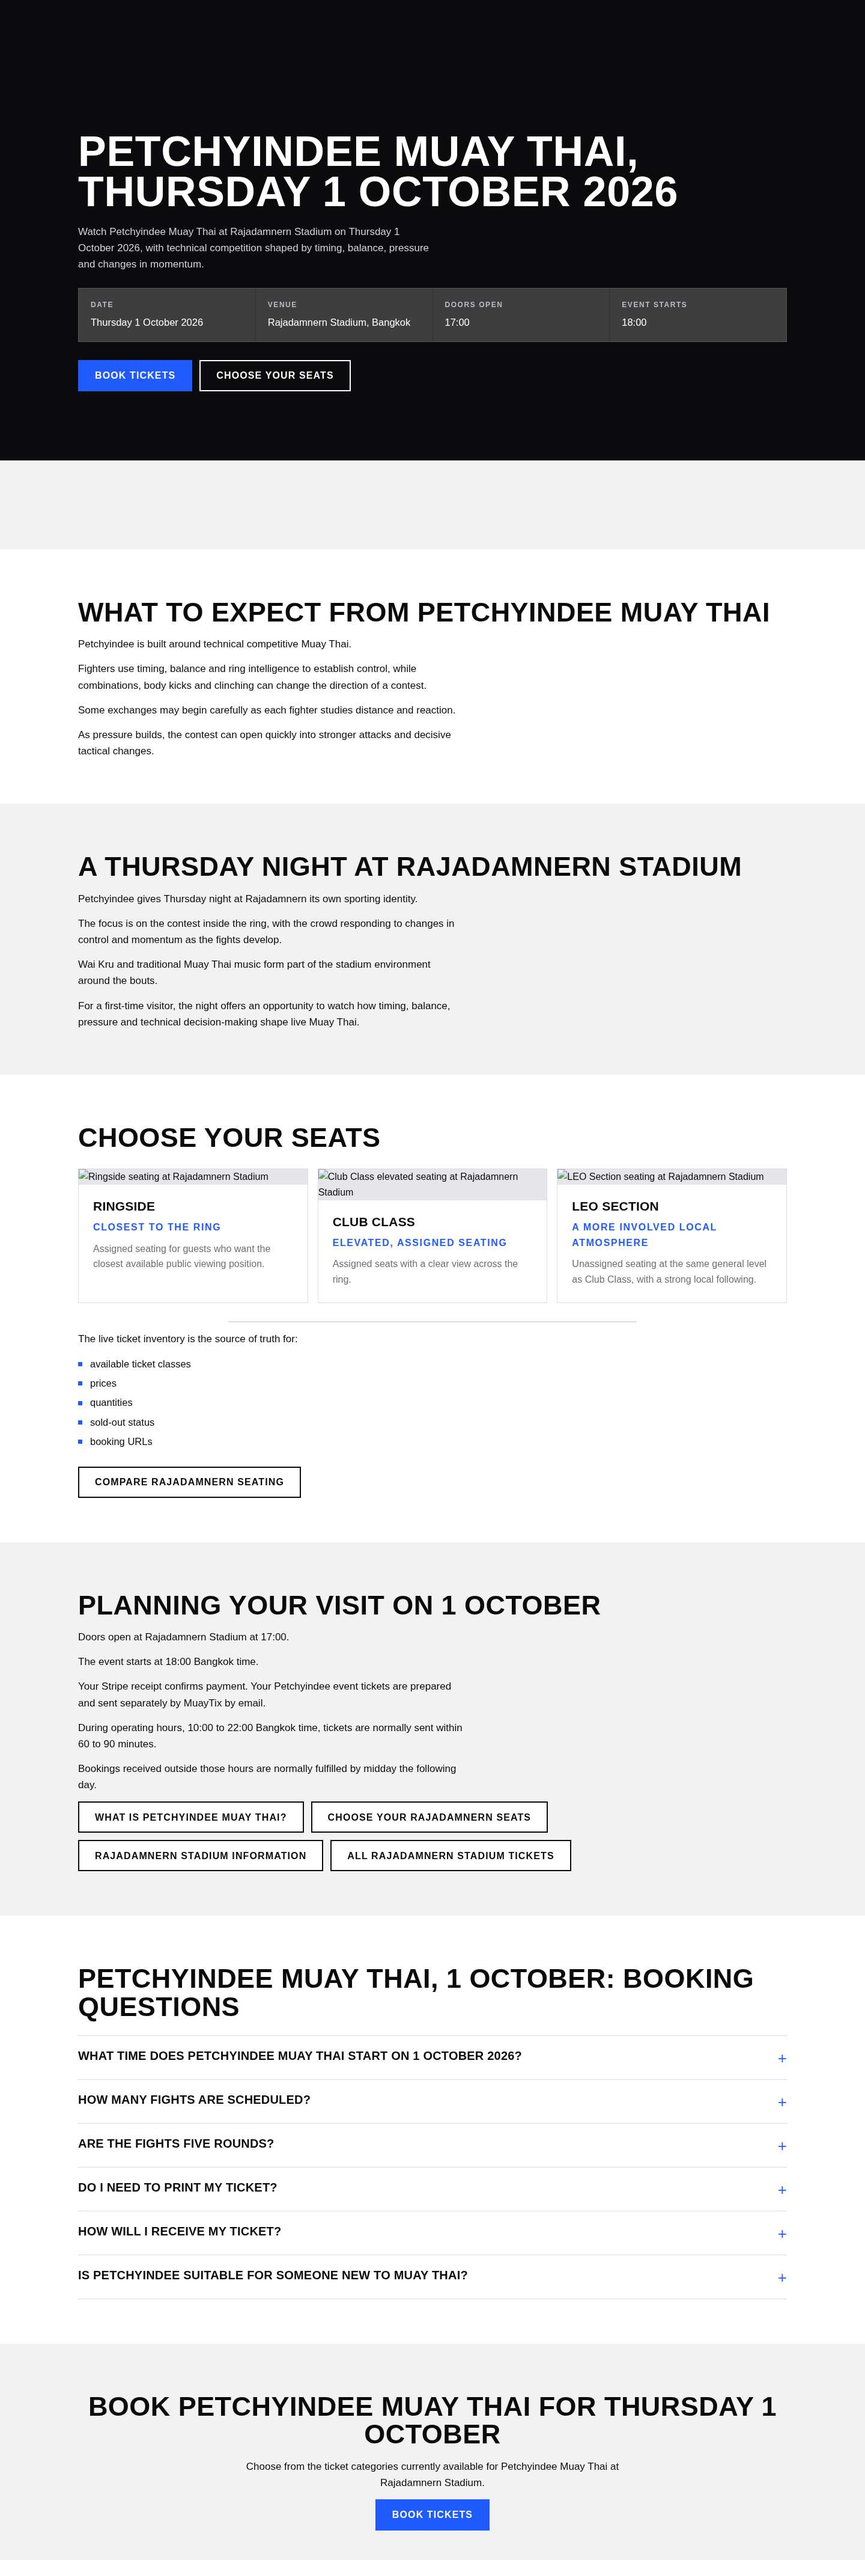
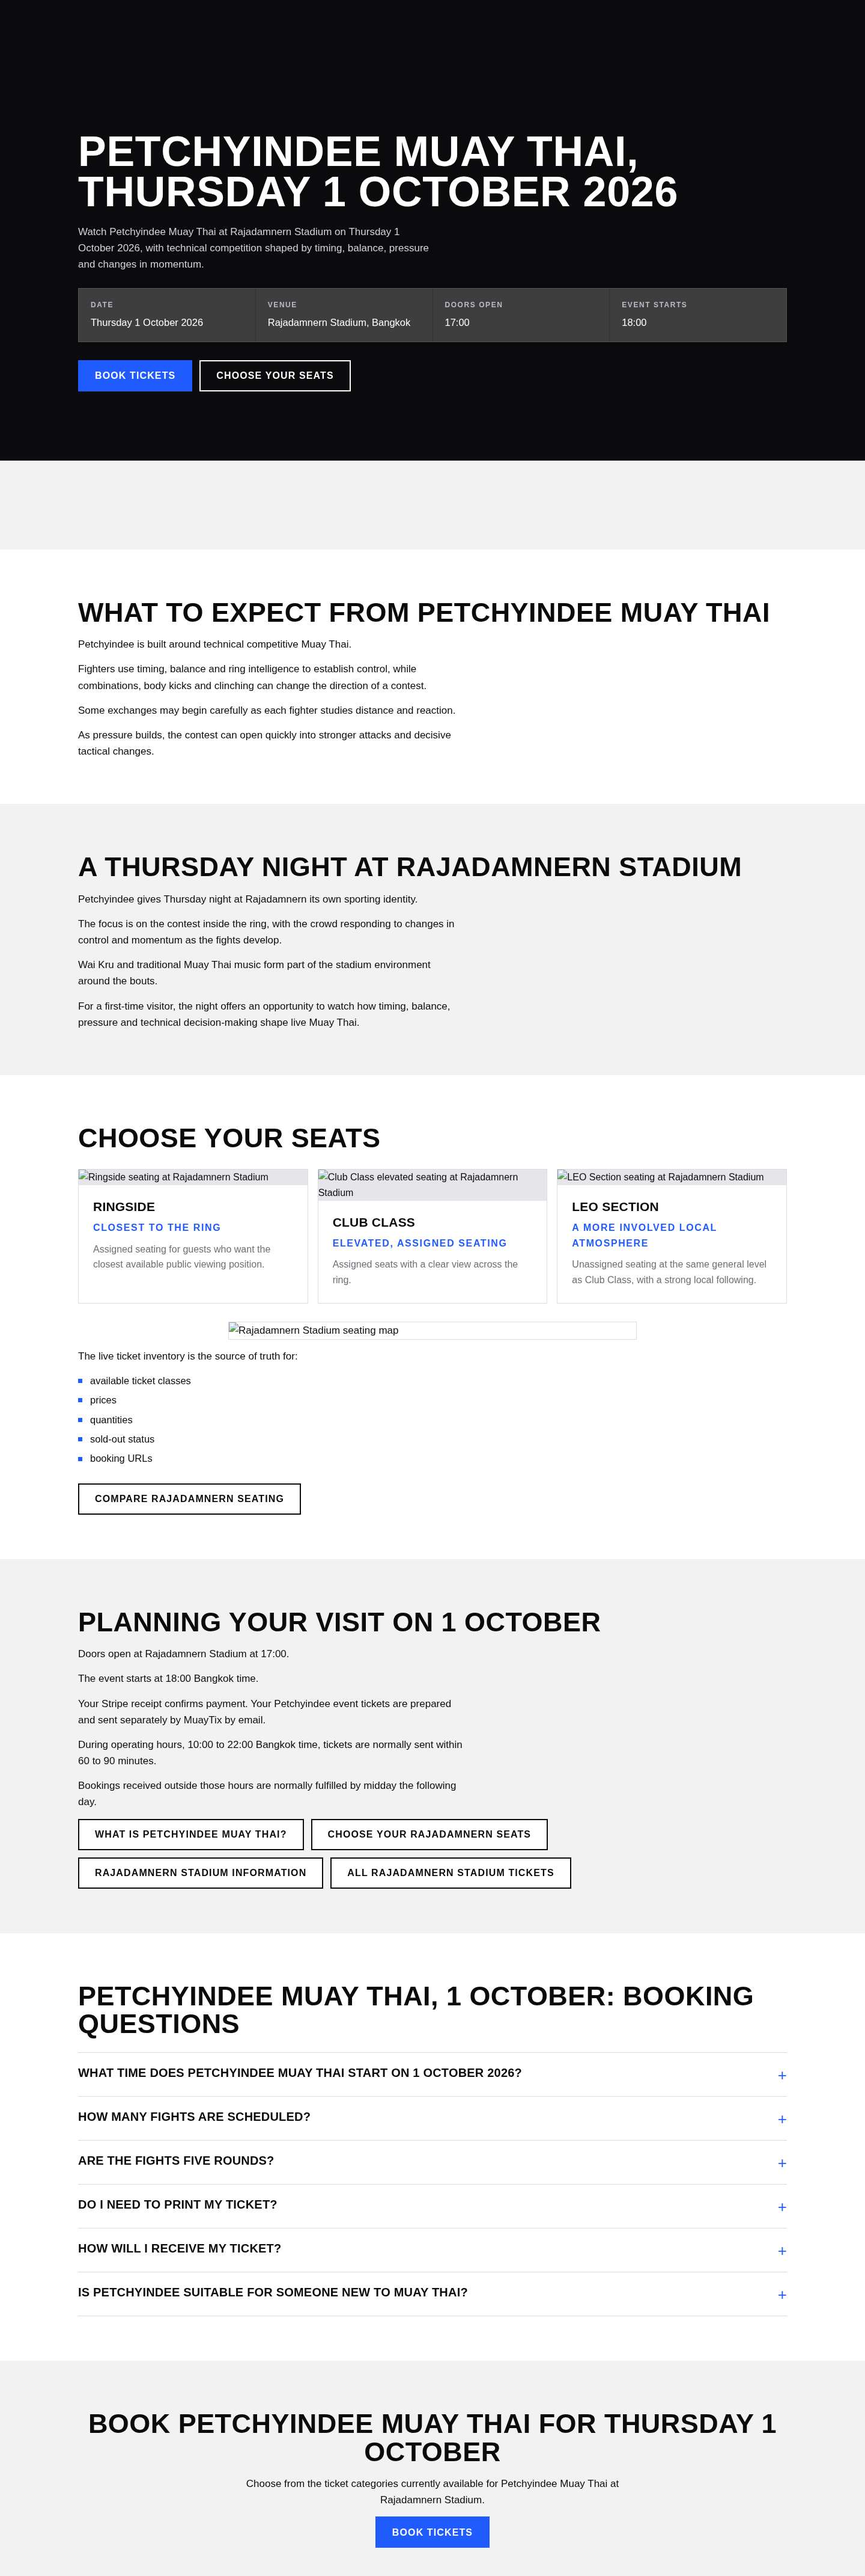
Give the widget its heading styles back on five pages
Every page that hosts the booking widget scopes its own headings with a
rule like `.mtx-pi h1, .mtx-pi h2, .mtx-pi h3 { text-transform: uppercase }`.
The widget mounts inside that scope, so the rule matches the widget's own
headings directly, and a direct match beats what the widget only sets on an
ancestor. The fight night's name and the widget's step labels were coming
out in the page's condensed capitals instead of the sentence case the widget
sets. Measured, not assumed: the widget's own h2 rendered text-transform
uppercase under the page stylesheet and none without it.

This is the trap that once turned a fight night's name white on a white
panel, and the seating page has carried the fix since. All-Star, New Power,
Knockout and Petchyindee did not. They do now.

The guard sets only colour and text-transform. An earlier draft also pinned
font-weight and knocked the band heading from 800 back to 700, which is why
each page was measured against the widget rendered with no page stylesheet
at all: all four now match that baseline exactly.

The homepage carries no widget, so it needs no guard.

Claude-Session: https://claude.ai/code/session_01KJfBegVkwrLgzgRP3UNWWd

diff --git a/pages/all-star/dated-source.html b/pages/all-star/dated-source.html
@@ -46,6 +46,14 @@
 .mtx-as h1 { font-size: clamp(38px, 6vw, 70px); line-height: .96; }
 .mtx-as h2 { font-size: clamp(29px, 3.6vw, 45px); line-height: 1.03; margin-top: 8px; }
 .mtx-as h3 { font-size: 21px; line-height: 1.15; }
+/* Hands the widget its own headings back. The widget mounts inside this block,
+   so the heading rules above match its headings directly, and a direct match
+   beats anything the widget only sets on an ancestor. Without this the fight
+   night's own name and the widget's step labels come out shouting in the
+   page's condensed capitals, and a colour set here once turned a fight
+   night's name white on a white panel. */
+.mtx-as #mtx-booking h1, .mtx-as #mtx-booking h2,
+.mtx-as #mtx-booking h3, .mtx-as #mtx-booking h4 { color: inherit; text-transform: none; }
 .mtx-as__kicker {
   display: block; color: var(--as-blue); font-family: "Barlow Condensed", "Arial Narrow", sans-serif;
   font-weight: 800; font-size: 13px; letter-spacing: .13em; text-transform: uppercase;

diff --git a/pages/all-star/hub-source.html b/pages/all-star/hub-source.html
@@ -46,6 +46,14 @@
 .mtx-as h1 { font-size: clamp(38px, 6vw, 70px); line-height: .96; }
 .mtx-as h2 { font-size: clamp(29px, 3.6vw, 45px); line-height: 1.03; margin-top: 8px; }
 .mtx-as h3 { font-size: 21px; line-height: 1.15; }
+/* Hands the widget its own headings back. The widget mounts inside this block,
+   so the heading rules above match its headings directly, and a direct match
+   beats anything the widget only sets on an ancestor. Without this the fight
+   night's own name and the widget's step labels come out shouting in the
+   page's condensed capitals, and a colour set here once turned a fight
+   night's name white on a white panel. */
+.mtx-as #mtx-booking h1, .mtx-as #mtx-booking h2,
+.mtx-as #mtx-booking h3, .mtx-as #mtx-booking h4 { color: inherit; text-transform: none; }
 .mtx-as__kicker {
   display: block; color: var(--as-blue); font-family: "Barlow Condensed", "Arial Narrow", sans-serif;
   font-weight: 800; font-size: 13px; letter-spacing: .13em; text-transform: uppercase;

diff --git a/pages/all-star/style.css b/pages/all-star/style.css
@@ -33,6 +33,14 @@
 .mtx-as h1 { font-size: clamp(38px, 6vw, 70px); line-height: .96; }
 .mtx-as h2 { font-size: clamp(29px, 3.6vw, 45px); line-height: 1.03; margin-top: 8px; }
 .mtx-as h3 { font-size: 21px; line-height: 1.15; }
+/* Hands the widget its own headings back. The widget mounts inside this block,
+   so the heading rules above match its headings directly, and a direct match
+   beats anything the widget only sets on an ancestor. Without this the fight
+   night's own name and the widget's step labels come out shouting in the
+   page's condensed capitals, and a colour set here once turned a fight
+   night's name white on a white panel. */
+.mtx-as #mtx-booking h1, .mtx-as #mtx-booking h2,
+.mtx-as #mtx-booking h3, .mtx-as #mtx-booking h4 { color: inherit; text-transform: none; }
 .mtx-as__kicker {
   display: block; color: var(--as-blue); font-family: "Barlow Condensed", "Arial Narrow", sans-serif;
   font-weight: 800; font-size: 13px; letter-spacing: .13em; text-transform: uppercase;

diff --git a/pages/knockout-dated/oct02-source.html b/pages/knockout-dated/oct02-source.html
@@ -46,6 +46,14 @@
 .mtx-kd h1 { font-size: clamp(38px, 6vw, 70px); line-height: .96; }
 .mtx-kd h2 { font-size: clamp(29px, 3.6vw, 45px); line-height: 1.03; margin-top: 8px; }
 .mtx-kd h3 { font-size: 21px; line-height: 1.15; }
+/* Hands the widget its own headings back. The widget mounts inside this block,
+   so the heading rules above match its headings directly, and a direct match
+   beats anything the widget only sets on an ancestor. Without this the fight
+   night's own name and the widget's step labels come out shouting in the
+   page's condensed capitals, and a colour set here once turned a fight
+   night's name white on a white panel. */
+.mtx-kd #mtx-booking h1, .mtx-kd #mtx-booking h2,
+.mtx-kd #mtx-booking h3, .mtx-kd #mtx-booking h4 { color: inherit; text-transform: none; }
 .mtx-kd__kicker {
   display: block; color: var(--kd-blue); font-family: "Barlow Condensed", "Arial Narrow", sans-serif;
   font-weight: 800; font-size: 13px; letter-spacing: .13em; text-transform: uppercase;

diff --git a/pages/knockout-dated/sep29-source.html b/pages/knockout-dated/sep29-source.html
@@ -46,6 +46,14 @@
 .mtx-kd h1 { font-size: clamp(38px, 6vw, 70px); line-height: .96; }
 .mtx-kd h2 { font-size: clamp(29px, 3.6vw, 45px); line-height: 1.03; margin-top: 8px; }
 .mtx-kd h3 { font-size: 21px; line-height: 1.15; }
+/* Hands the widget its own headings back. The widget mounts inside this block,
+   so the heading rules above match its headings directly, and a direct match
+   beats anything the widget only sets on an ancestor. Without this the fight
+   night's own name and the widget's step labels come out shouting in the
+   page's condensed capitals, and a colour set here once turned a fight
+   night's name white on a white panel. */
+.mtx-kd #mtx-booking h1, .mtx-kd #mtx-booking h2,
+.mtx-kd #mtx-booking h3, .mtx-kd #mtx-booking h4 { color: inherit; text-transform: none; }
 .mtx-kd__kicker {
   display: block; color: var(--kd-blue); font-family: "Barlow Condensed", "Arial Narrow", sans-serif;
   font-weight: 800; font-size: 13px; letter-spacing: .13em; text-transform: uppercase;

diff --git a/pages/knockout-dated/style.css b/pages/knockout-dated/style.css
@@ -33,6 +33,14 @@
 .mtx-kd h1 { font-size: clamp(38px, 6vw, 70px); line-height: .96; }
 .mtx-kd h2 { font-size: clamp(29px, 3.6vw, 45px); line-height: 1.03; margin-top: 8px; }
 .mtx-kd h3 { font-size: 21px; line-height: 1.15; }
+/* Hands the widget its own headings back. The widget mounts inside this block,
+   so the heading rules above match its headings directly, and a direct match
+   beats anything the widget only sets on an ancestor. Without this the fight
+   night's own name and the widget's step labels come out shouting in the
+   page's condensed capitals, and a colour set here once turned a fight
+   night's name white on a white panel. */
+.mtx-kd #mtx-booking h1, .mtx-kd #mtx-booking h2,
+.mtx-kd #mtx-booking h3, .mtx-kd #mtx-booking h4 { color: inherit; text-transform: none; }
 .mtx-kd__kicker {
   display: block; color: var(--kd-blue); font-family: "Barlow Condensed", "Arial Narrow", sans-serif;
   font-weight: 800; font-size: 13px; letter-spacing: .13em; text-transform: uppercase;

diff --git a/pages/new-power/dated-source.html b/pages/new-power/dated-source.html
@@ -47,6 +47,14 @@
 .mtx-np h1 { font-size: clamp(38px, 6vw, 70px); line-height: .96; }
 .mtx-np h2 { font-size: clamp(29px, 3.6vw, 45px); line-height: 1.03; margin-top: 8px; }
 .mtx-np h3 { font-size: 21px; line-height: 1.15; }
+/* Hands the widget its own headings back. The widget mounts inside this block,
+   so the heading rules above match its headings directly, and a direct match
+   beats anything the widget only sets on an ancestor. Without this the fight
+   night's own name and the widget's step labels come out shouting in the
+   page's condensed capitals, and a colour set here once turned a fight
+   night's name white on a white panel. */
+.mtx-np #mtx-booking h1, .mtx-np #mtx-booking h2,
+.mtx-np #mtx-booking h3, .mtx-np #mtx-booking h4 { color: inherit; text-transform: none; }
 .mtx-np__kicker {
   display: block; color: var(--np-blue); font-family: "Barlow Condensed", "Arial Narrow", sans-serif;
   font-weight: 800; font-size: 13px; letter-spacing: .13em; text-transform: uppercase;

diff --git a/pages/new-power/hub-source.html b/pages/new-power/hub-source.html
@@ -47,6 +47,14 @@
 .mtx-np h1 { font-size: clamp(38px, 6vw, 70px); line-height: .96; }
 .mtx-np h2 { font-size: clamp(29px, 3.6vw, 45px); line-height: 1.03; margin-top: 8px; }
 .mtx-np h3 { font-size: 21px; line-height: 1.15; }
+/* Hands the widget its own headings back. The widget mounts inside this block,
+   so the heading rules above match its headings directly, and a direct match
+   beats anything the widget only sets on an ancestor. Without this the fight
+   night's own name and the widget's step labels come out shouting in the
+   page's condensed capitals, and a colour set here once turned a fight
+   night's name white on a white panel. */
+.mtx-np #mtx-booking h1, .mtx-np #mtx-booking h2,
+.mtx-np #mtx-booking h3, .mtx-np #mtx-booking h4 { color: inherit; text-transform: none; }
 .mtx-np__kicker {
   display: block; color: var(--np-blue); font-family: "Barlow Condensed", "Arial Narrow", sans-serif;
   font-weight: 800; font-size: 13px; letter-spacing: .13em; text-transform: uppercase;

diff --git a/pages/new-power/style.css b/pages/new-power/style.css
@@ -34,6 +34,14 @@
 .mtx-np h1 { font-size: clamp(38px, 6vw, 70px); line-height: .96; }
 .mtx-np h2 { font-size: clamp(29px, 3.6vw, 45px); line-height: 1.03; margin-top: 8px; }
 .mtx-np h3 { font-size: 21px; line-height: 1.15; }
+/* Hands the widget its own headings back. The widget mounts inside this block,
+   so the heading rules above match its headings directly, and a direct match
+   beats anything the widget only sets on an ancestor. Without this the fight
+   night's own name and the widget's step labels come out shouting in the
+   page's condensed capitals, and a colour set here once turned a fight
+   night's name white on a white panel. */
+.mtx-np #mtx-booking h1, .mtx-np #mtx-booking h2,
+.mtx-np #mtx-booking h3, .mtx-np #mtx-booking h4 { color: inherit; text-transform: none; }
 .mtx-np__kicker {
   display: block; color: var(--np-blue); font-family: "Barlow Condensed", "Arial Narrow", sans-serif;
   font-weight: 800; font-size: 13px; letter-spacing: .13em; text-transform: uppercase;

diff --git a/pages/petchyindee/dated-source.html b/pages/petchyindee/dated-source.html
@@ -46,6 +46,14 @@
 .mtx-pi h1 { font-size: clamp(38px, 6vw, 70px); line-height: .96; }
 .mtx-pi h2 { font-size: clamp(29px, 3.6vw, 45px); line-height: 1.03; margin-top: 8px; }
 .mtx-pi h3 { font-size: 21px; line-height: 1.15; }
+/* Hands the widget its own headings back. The widget mounts inside this block,
+   so the heading rules above match its headings directly, and a direct match
+   beats anything the widget only sets on an ancestor. Without this the fight
+   night's own name and the widget's step labels come out shouting in the
+   page's condensed capitals, and a colour set here once turned a fight
+   night's name white on a white panel. */
+.mtx-pi #mtx-booking h1, .mtx-pi #mtx-booking h2,
+.mtx-pi #mtx-booking h3, .mtx-pi #mtx-booking h4 { color: inherit; text-transform: none; }
 .mtx-pi__kicker {
   display: block; color: var(--pi-blue); font-family: "Barlow Condensed", "Arial Narrow", sans-serif;
   font-weight: 800; font-size: 13px; letter-spacing: .13em; text-transform: uppercase;

diff --git a/pages/petchyindee/hub-source.html b/pages/petchyindee/hub-source.html
@@ -46,6 +46,14 @@
 .mtx-pi h1 { font-size: clamp(38px, 6vw, 70px); line-height: .96; }
 .mtx-pi h2 { font-size: clamp(29px, 3.6vw, 45px); line-height: 1.03; margin-top: 8px; }
 .mtx-pi h3 { font-size: 21px; line-height: 1.15; }
+/* Hands the widget its own headings back. The widget mounts inside this block,
+   so the heading rules above match its headings directly, and a direct match
+   beats anything the widget only sets on an ancestor. Without this the fight
+   night's own name and the widget's step labels come out shouting in the
+   page's condensed capitals, and a colour set here once turned a fight
+   night's name white on a white panel. */
+.mtx-pi #mtx-booking h1, .mtx-pi #mtx-booking h2,
+.mtx-pi #mtx-booking h3, .mtx-pi #mtx-booking h4 { color: inherit; text-transform: none; }
 .mtx-pi__kicker {
   display: block; color: var(--pi-blue); font-family: "Barlow Condensed", "Arial Narrow", sans-serif;
   font-weight: 800; font-size: 13px; letter-spacing: .13em; text-transform: uppercase;

diff --git a/pages/petchyindee/style.css b/pages/petchyindee/style.css
@@ -33,6 +33,14 @@
 .mtx-pi h1 { font-size: clamp(38px, 6vw, 70px); line-height: .96; }
 .mtx-pi h2 { font-size: clamp(29px, 3.6vw, 45px); line-height: 1.03; margin-top: 8px; }
 .mtx-pi h3 { font-size: 21px; line-height: 1.15; }
+/* Hands the widget its own headings back. The widget mounts inside this block,
+   so the heading rules above match its headings directly, and a direct match
+   beats anything the widget only sets on an ancestor. Without this the fight
+   night's own name and the widget's step labels come out shouting in the
+   page's condensed capitals, and a colour set here once turned a fight
+   night's name white on a white panel. */
+.mtx-pi #mtx-booking h1, .mtx-pi #mtx-booking h2,
+.mtx-pi #mtx-booking h3, .mtx-pi #mtx-booking h4 { color: inherit; text-transform: none; }
 .mtx-pi__kicker {
   display: block; color: var(--pi-blue); font-family: "Barlow Condensed", "Arial Narrow", sans-serif;
   font-weight: 800; font-size: 13px; letter-spacing: .13em; text-transform: uppercase;
